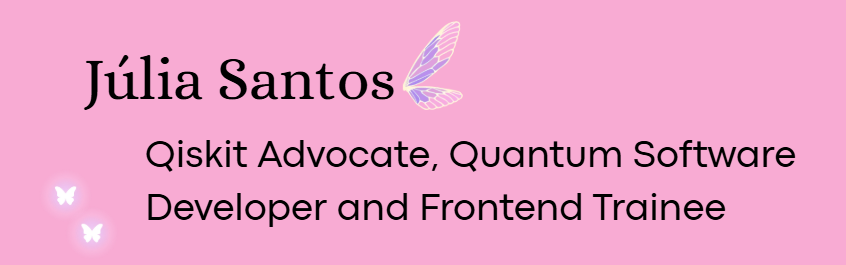
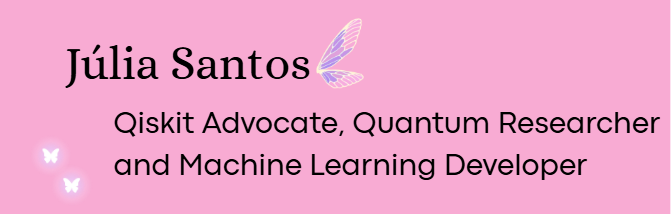
feat: researcher

diff --git a/README.md b/README.md
@@ -1,23 +1,28 @@
-
-![About me: Computer Engineering with interest in quantum computing, web development and machine learning.](me.png)
+![About me: Computer Engineering student focused on machine learning, MLOps and quantum computing.](me.png)
 ## Hiii, Welcome to my profile 👋!!
 [![linkedn](https://img.shields.io/badge/LinkedIn-0077B5?style=for-the-badge&logo=linkedin&logoColor=white)](https://www.linkedin.com/in/julia-santos-511900256/)
 [![gmail](https://img.shields.io/badge/Gmail-D14836?style=for-the-badge&logo=gmail&logoColor=white)](mailto:juliasantos7652@gmail.com)
 
+Computer Engineering student · Quantum Computing Researcher · Qiskit Advocate
+
 ### I'm currently learning...
-<li> FullStack Apliccations
-<li> Quantum Computing
+<li> Deep Learning & Computer Vision
+<li> Quantum Machine Learning
 <li> AWS Cloud
 
-### I use...
-<li> DevOps
-<li> IaC
-<li> FrontEnd and Backend
+### I work with...
+<li> Machine Learning & Data Engineering
+<li> MLOps, CI/CD and IaC
+<li> Quantum Computing
 
 ## My skills...
-[![My Skills](https://skillicons.dev/icons?i=html,css,nodejs,react,git,aws,go,firebase,python,figma,latex,vim,ts,sass,&theme=light)](https://skillicons.dev)
+[![My Skills](https://skillicons.dev/icons?i=python,pytorch,sklearn,docker,git,githubactions,gitlab,linux,bash,aws,azure,ts,react,nextjs,sass,latex,figma,vim&theme=light)](https://skillicons.dev)
 
-
-
-
-
+![Qiskit](https://img.shields.io/badge/Qiskit-6929C4?style=for-the-badge&logo=qiskit&logoColor=white)
+![PyTorch](https://img.shields.io/badge/PyTorch-EE4C2C?style=for-the-badge&logo=pytorch&logoColor=white)
+![NumPy](https://img.shields.io/badge/NumPy-013243?style=for-the-badge&logo=numpy&logoColor=white)
+![pandas](https://img.shields.io/badge/pandas-150458?style=for-the-badge&logo=pandas&logoColor=white)
+![Hydra](https://img.shields.io/badge/Hydra-54c7ec?style=for-the-badge&logoColor=white)
+![DVC](https://img.shields.io/badge/DVC-13ADC7?style=for-the-badge&logo=dvc&logoColor=white)
+![uv](https://img.shields.io/badge/uv-DE5FE9?style=for-the-badge&logo=uv&logoColor=white)
+![pytest](https://img.shields.io/badge/pytest-0A9EDC?style=for-the-badge&logo=pytest&logoColor=white)
